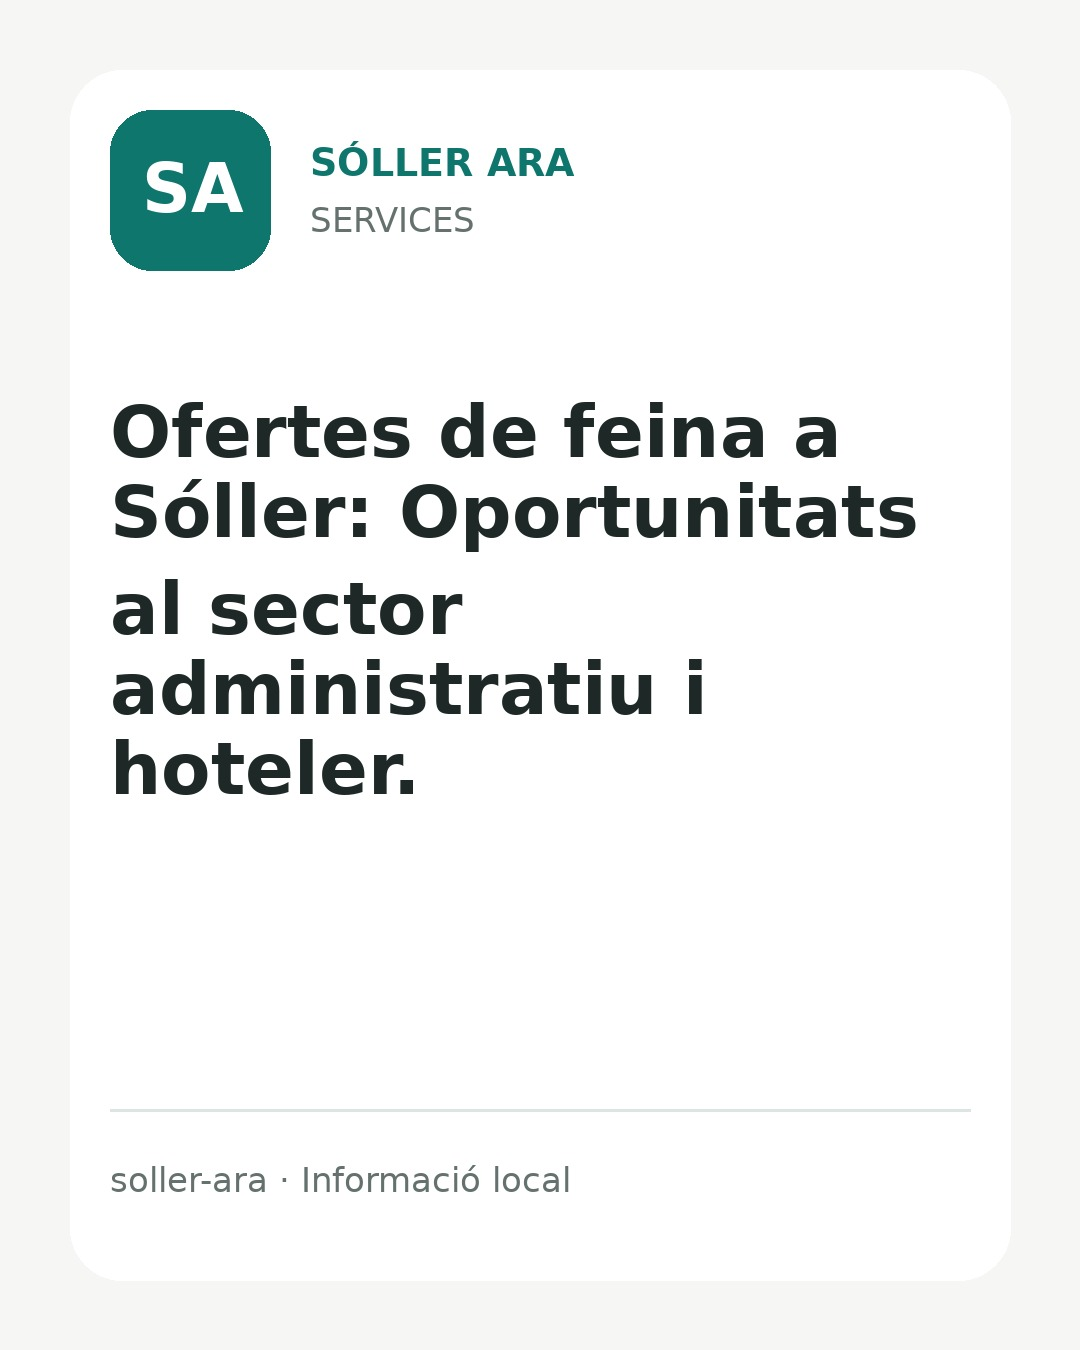
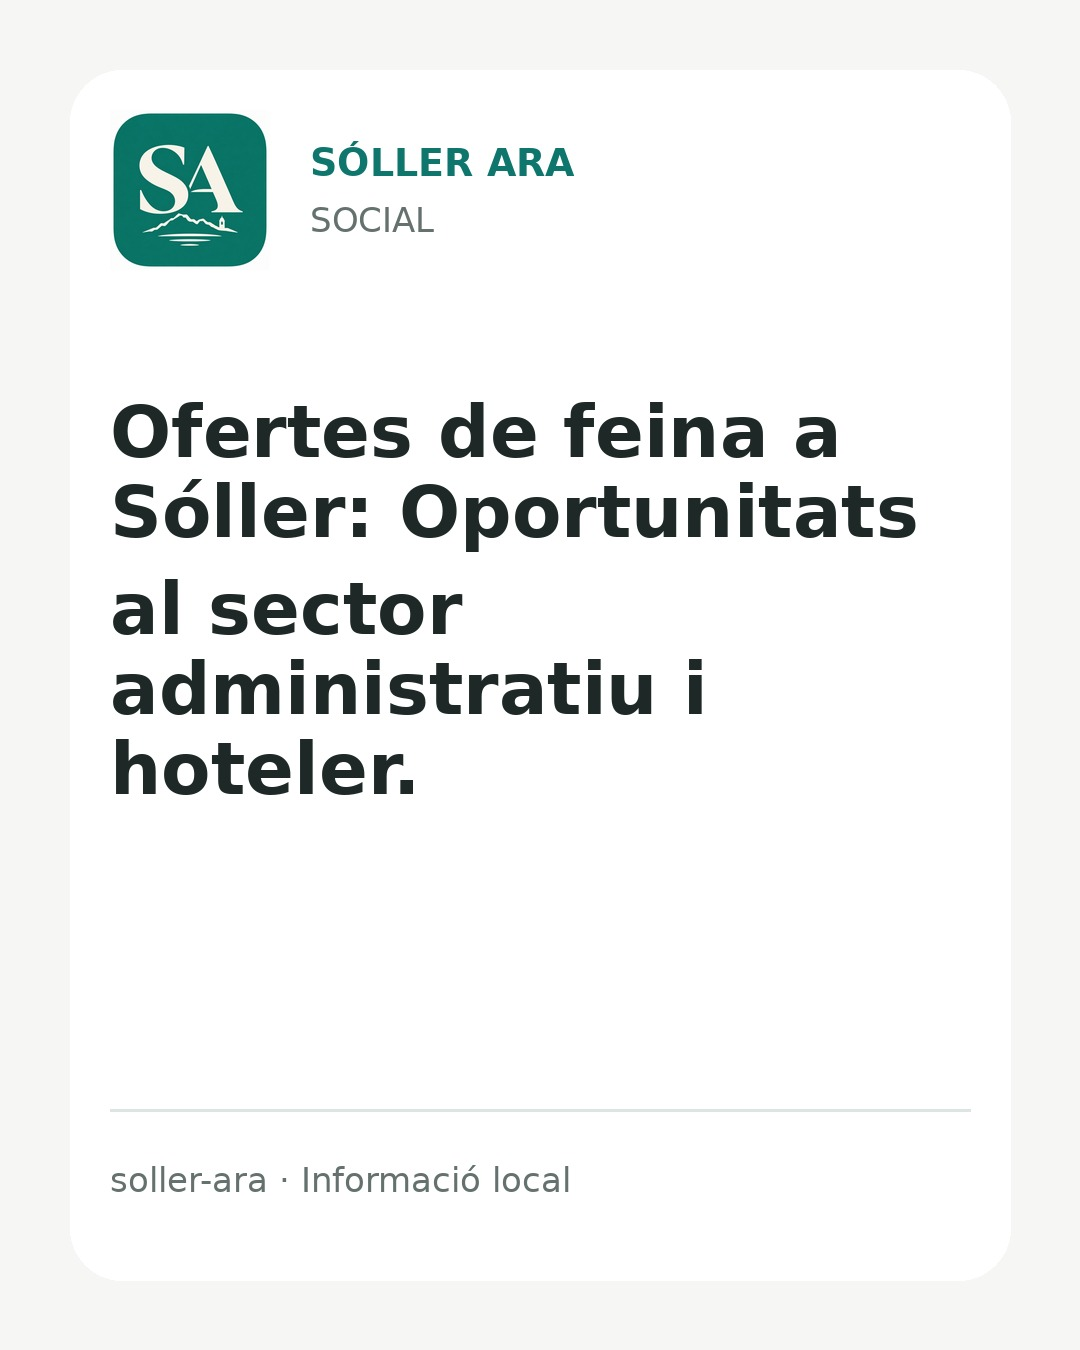
editar: contingut propi de Sóller Ara

Changed region(s): [[0.0917, 0.0933, 0.275, 0.2178], [0.3056, 0.1556, 0.4278, 0.1867]]

diff --git a/noticies/soller-ara-934624476dd3043e.html b/noticies/soller-ara-934624476dd3043e.html
@@ -9,7 +9,10 @@
  
  Hotel Es Port: Selecciona personal respons" />
   <link rel="canonical" href="https://soller-ara.github.io/soller-ara/noticies/soller-ara-934624476dd3043e.html" />
-  <link rel="stylesheet" href="../styles.css?v=0.38" />
+  <link rel="icon" href="../favicon.ico" sizes="any" />
+  <link rel="icon" type="image/png" sizes="48x48" href="../assets/brand/favicon-48.png" />
+  <link rel="apple-touch-icon" sizes="180x180" href="../assets/brand/apple-touch-icon.png" />
+  <link rel="stylesheet" href="../styles.css?v=0.64" />
   <meta property="og:type" content="article" />
   <meta property="og:site_name" content="Sóller Ara" />
   <meta property="og:title" content="Ofertes de feina a Sóller: Oportunitats al sector administratiu i hoteler." />
@@ -28,7 +31,7 @@
 <body>
   <header class="topbar">
     <a class="brand-wrap" href="../index.html" style="text-decoration:none">
-      <div class="brand-mark" aria-hidden="true">SA</div>
+      <div class="brand-mark"><img src="../assets/brand/logo-soller-ara-web.png" width="48" height="48" alt="" /></div>
       <div><h1>Sóller Ara</h1><p>Tot el que passa a Sóller, en un sol lloc.</p></div>
     </a>
   </header>

diff --git a/data/posts.js b/data/posts.js
@@ -296,7 +296,7 @@ window.SOLLER_ARA_DATA = {
   "posts": [
     {
       "id": "soller-ara-934624476dd3043e",
-      "category": "services",
+      "category": "social",
       "source_id": "manual-4f785079a49c",
       "source": "Som joves",
       "source_type": "own",
